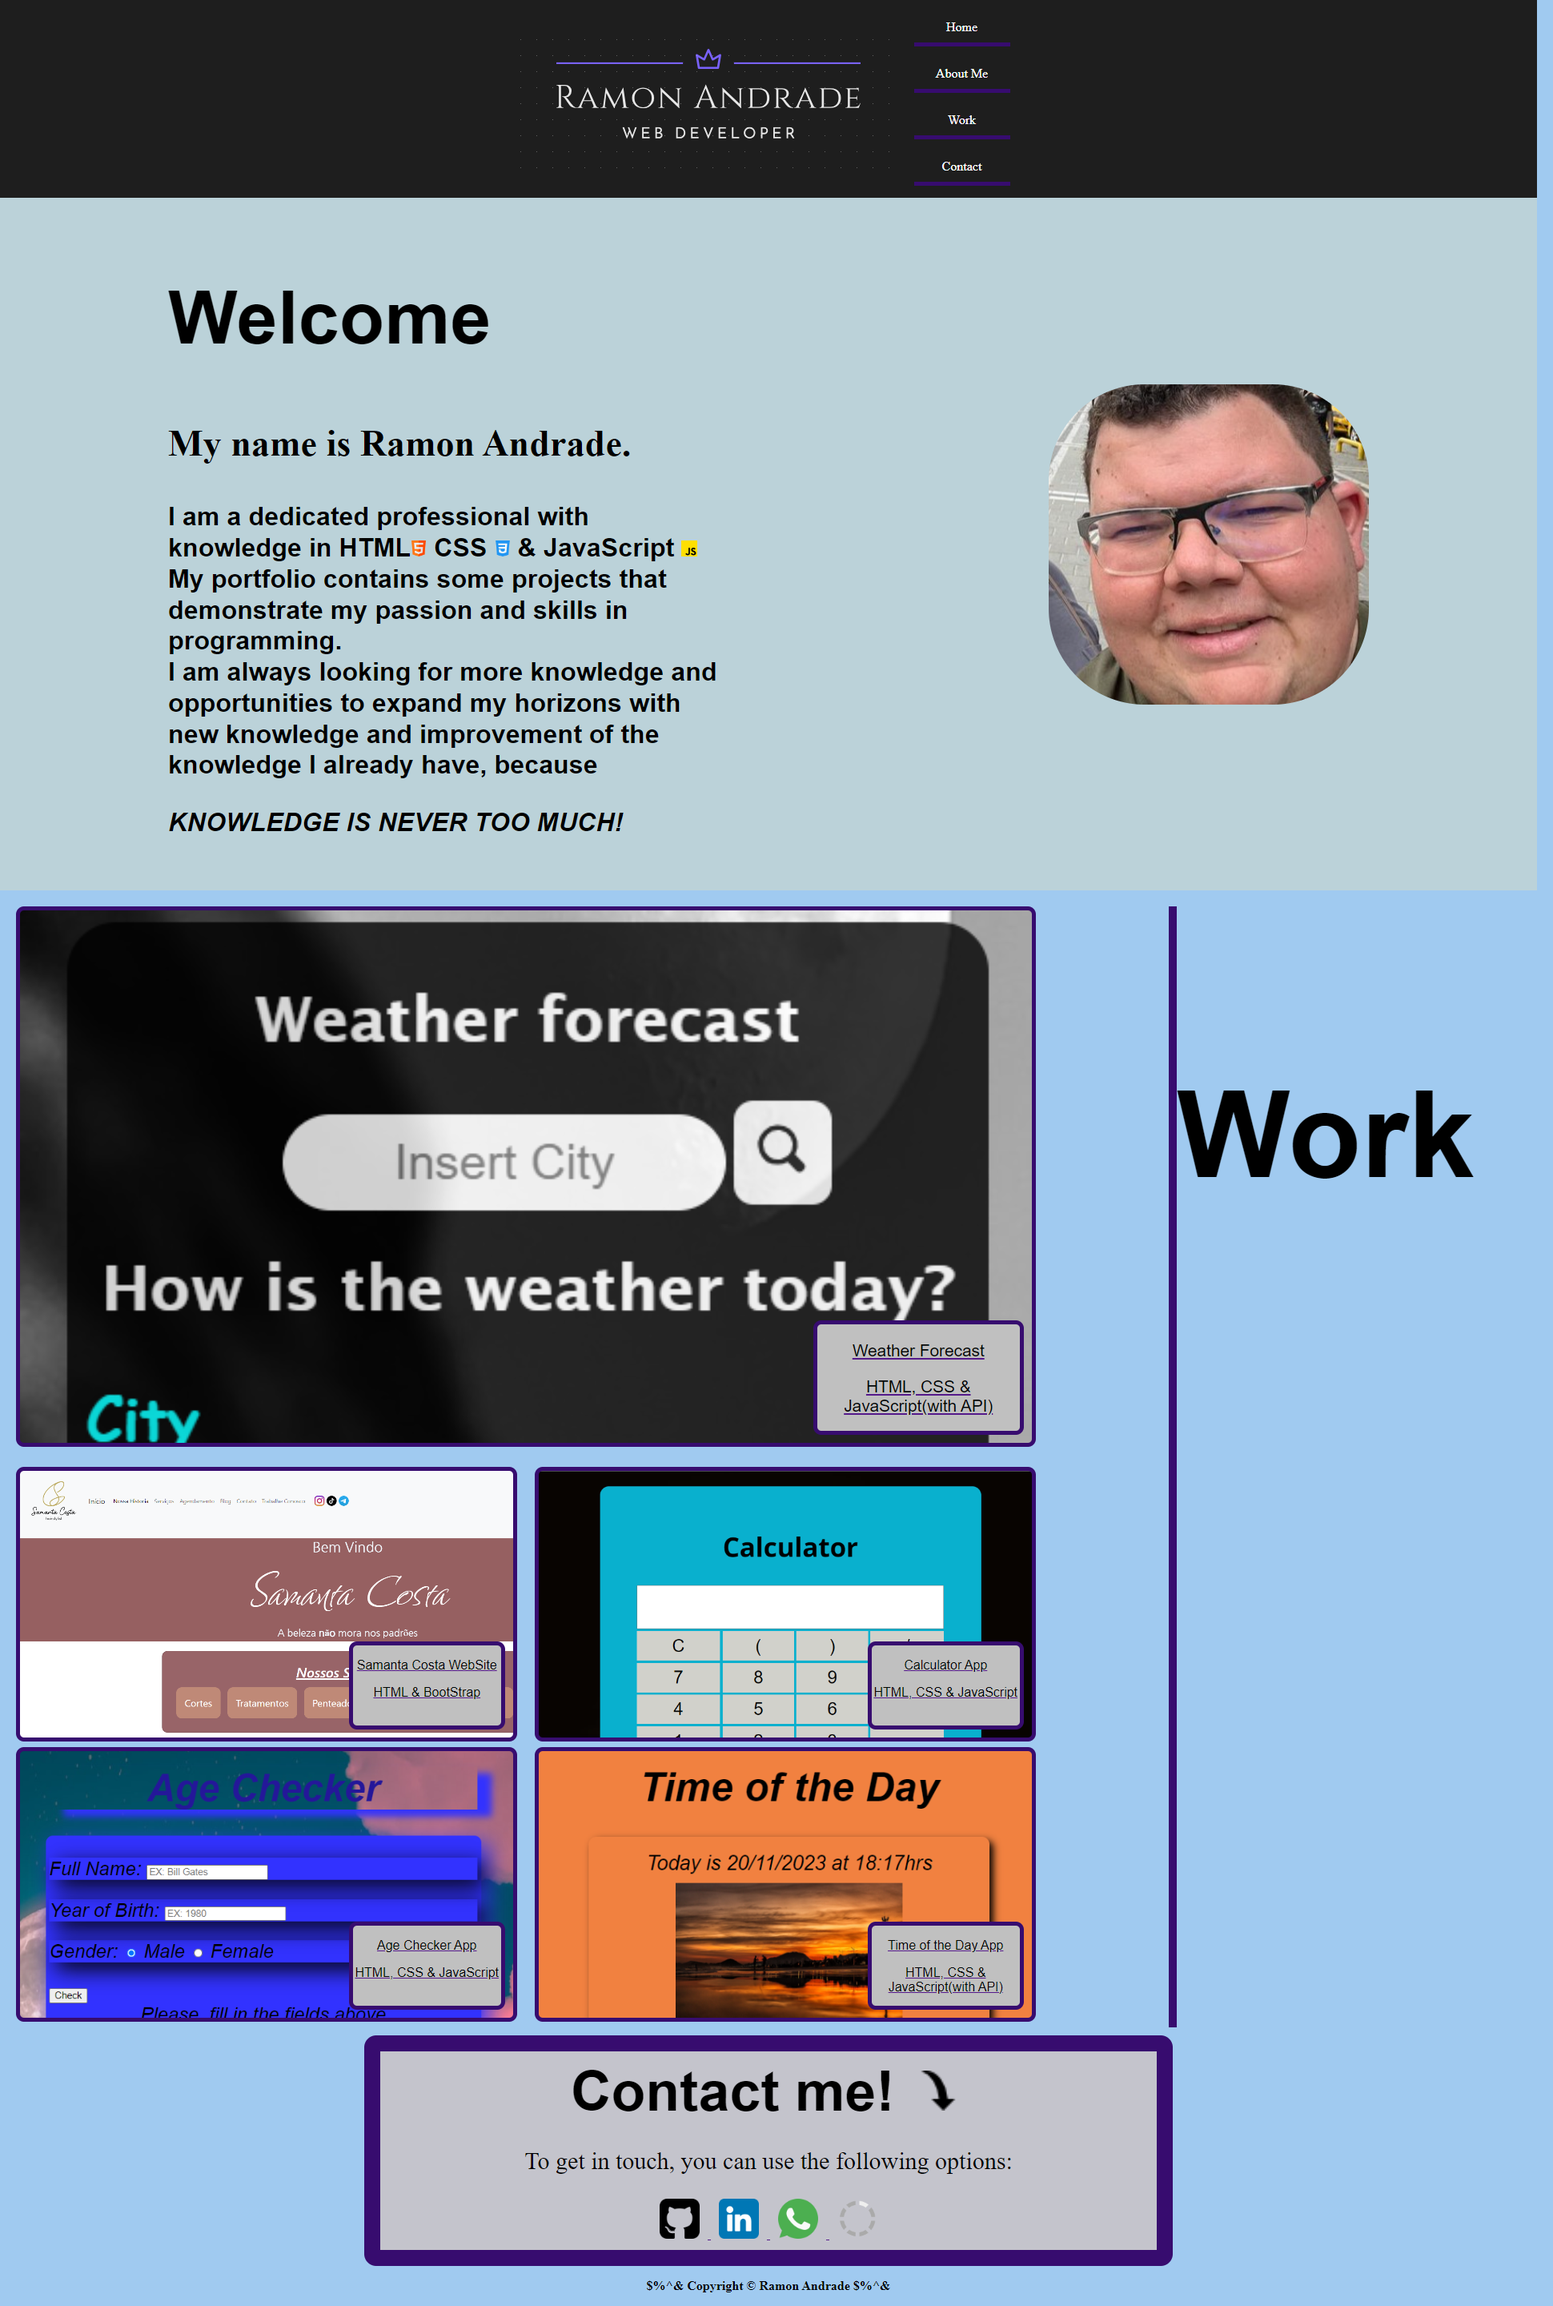
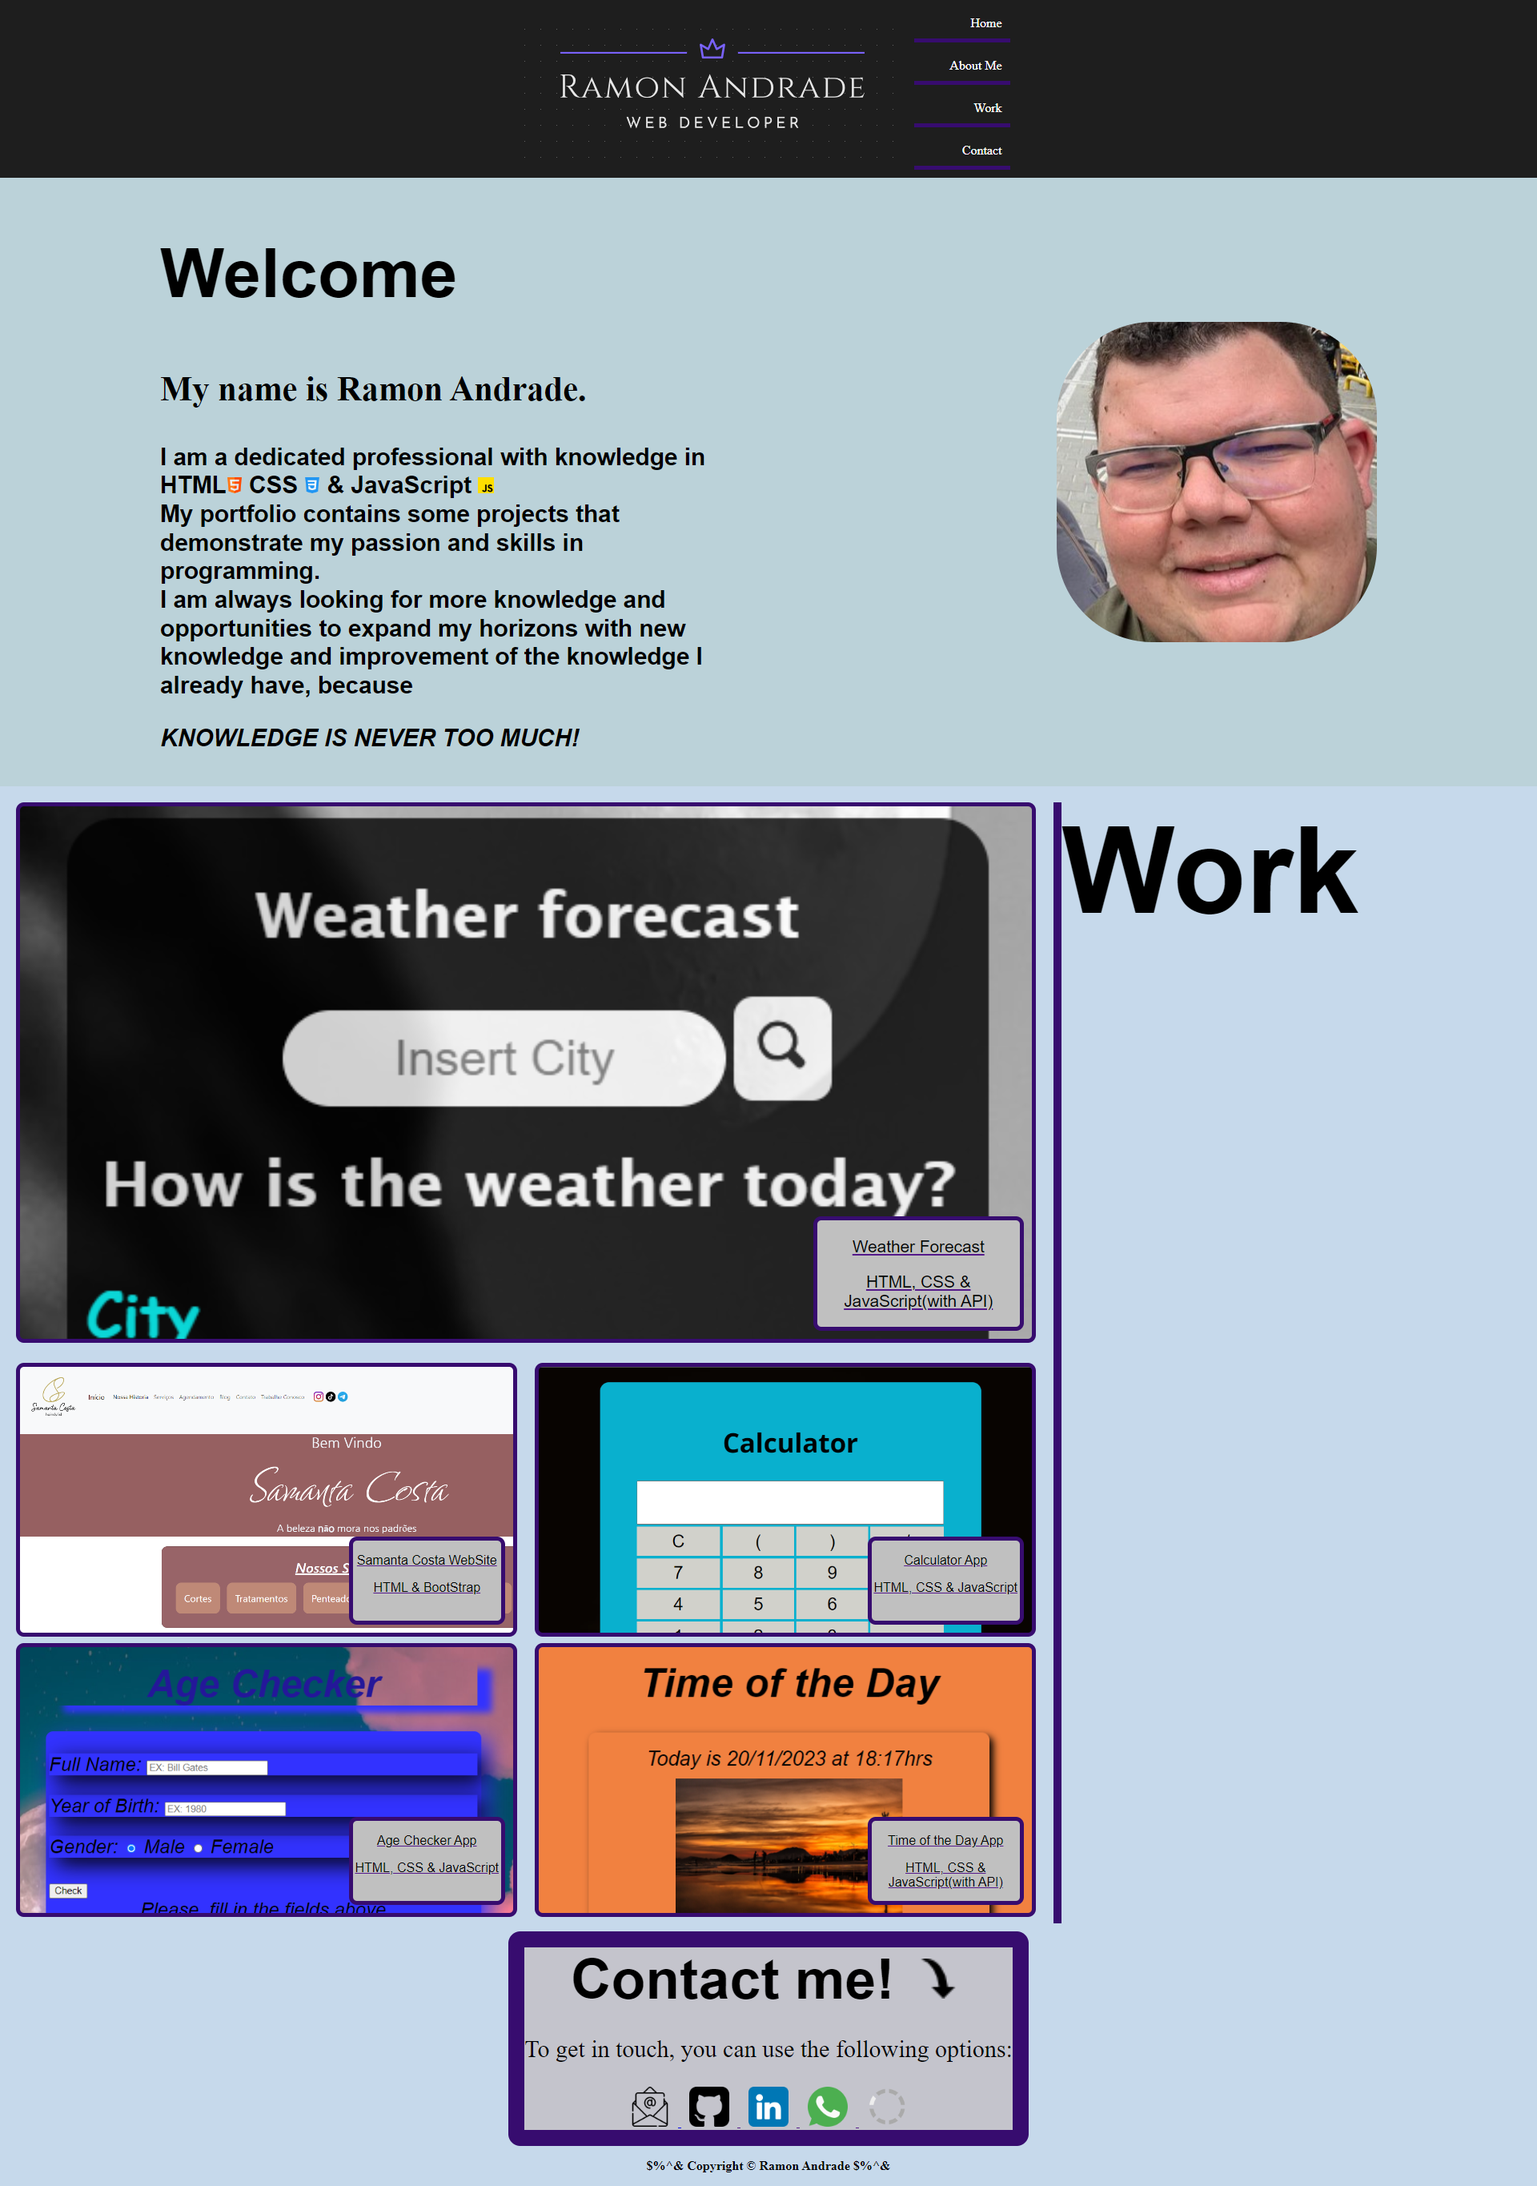
contact - adjusted color

diff --git a/starter/css/style.css b/starter/css/style.css
@@ -7,12 +7,11 @@
 body {
   margin:0;
   padding: 0;
-  background-color: rgb(160, 202, 240);
+  background-color: rgb(198, 217, 235);
   
 }
 /* ////////// NavBar section /////////////// */
 .nav-size{
-  width: 100%;
   background-color: #1e1e1e;
   display: flex;
   align-items: center;
@@ -24,12 +23,10 @@ body {
   color: white;
   text-decoration: none;
   padding: 10px;
-  margin: 15px;
+  margin: 10px;
   border-bottom: 5px solid var(--standart-color);
   display: flex;
   justify-content: center;
-  
-
 }
 
 .navbar a:hover {
@@ -43,8 +40,7 @@ body {
   display: flex;
   align-items: center;
   justify-content: space-around;
-  padding: 20px;
-  background-color:  rgb(187, 210, 217);
+  background-color:  rgb(160, 202, 240);
   color: rgb(0, 0, 0);
 }
 
@@ -80,7 +76,7 @@ body {
 /*/////////////  Work Section /////////////// */
 .container-work{
   height: 1400px;
-  width: 100%;
+  width: 90%;
   display: grid;
   grid-template-rows: 100%;
   grid-template-columns: 75% 25%;
@@ -92,11 +88,9 @@ body {
 .work-grid{
   grid-area: work-grid;
   display: grid;
-  grid-template-columns: 45% 45%;
+  grid-template-columns: 50% 50%;
   grid-template-rows: 50% 25% 25%;
   grid-template-areas: "img1 img1" "img2 img3" "img4 img5";
-  width: 100%;
-  height: 100%; 
 }
 
 .works-img{
@@ -119,8 +113,6 @@ transform: scale(1.03,1.03);
 .work-text {
   grid-area: work-text;
   border-left: 10px solid var(--standart-color);
-  align-items: center;
-  
 }
 
 #img1{
@@ -177,6 +169,8 @@ border: 5px var(--standart-color) solid;
 }
 
 .work-text h4 {
+  width: 100%;
+  margin: 0;
   font-family: var(--font);
   font-size: 150px;
 }
@@ -195,8 +189,6 @@ border: 5px var(--standart-color) solid;
 
 .container-contact{
   background-color:rgb(196, 196, 204) ;
-  width: 50%;
-  padding: 10px;
   border-radius: 15px;
   border: 20px solid var(--standart-color);
 }
@@ -208,6 +200,7 @@ border: 5px var(--standart-color) solid;
 }
 
 .contact{
+  width: 100%;
   display: flex;
   flex-direction: column;
   align-items: center;
@@ -228,6 +221,9 @@ border: 5px var(--standart-color) solid;
     max-width: 100%;
     background-color: #1e1e1e;
     flex-direction: column;
+  }
+  .navbar{
+    display: flex;
   }
 
   .about-me-container{
@@ -273,7 +269,7 @@ border: 5px var(--standart-color) solid;
   }
   .container-contact{
     border: none;
-    background-color: rgb(160, 202, 240);
+    background-color: rgb(198, 217, 235);
   }
   .contact h4{
     font-size: 50px;
